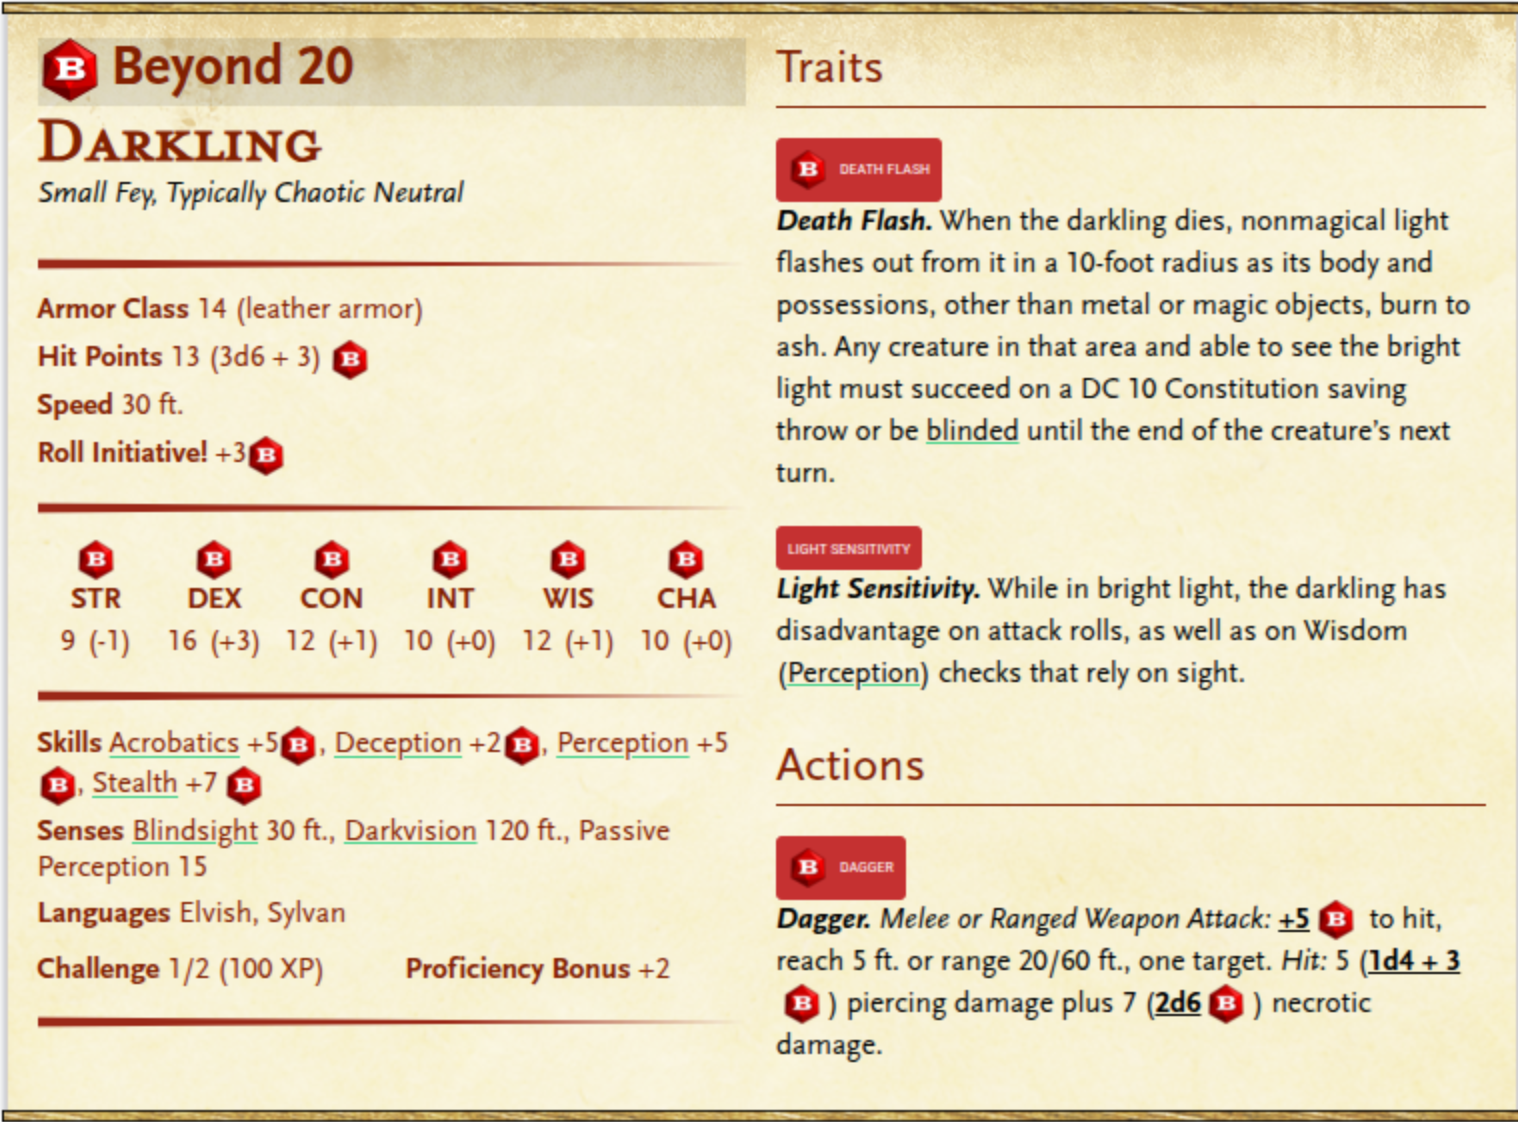
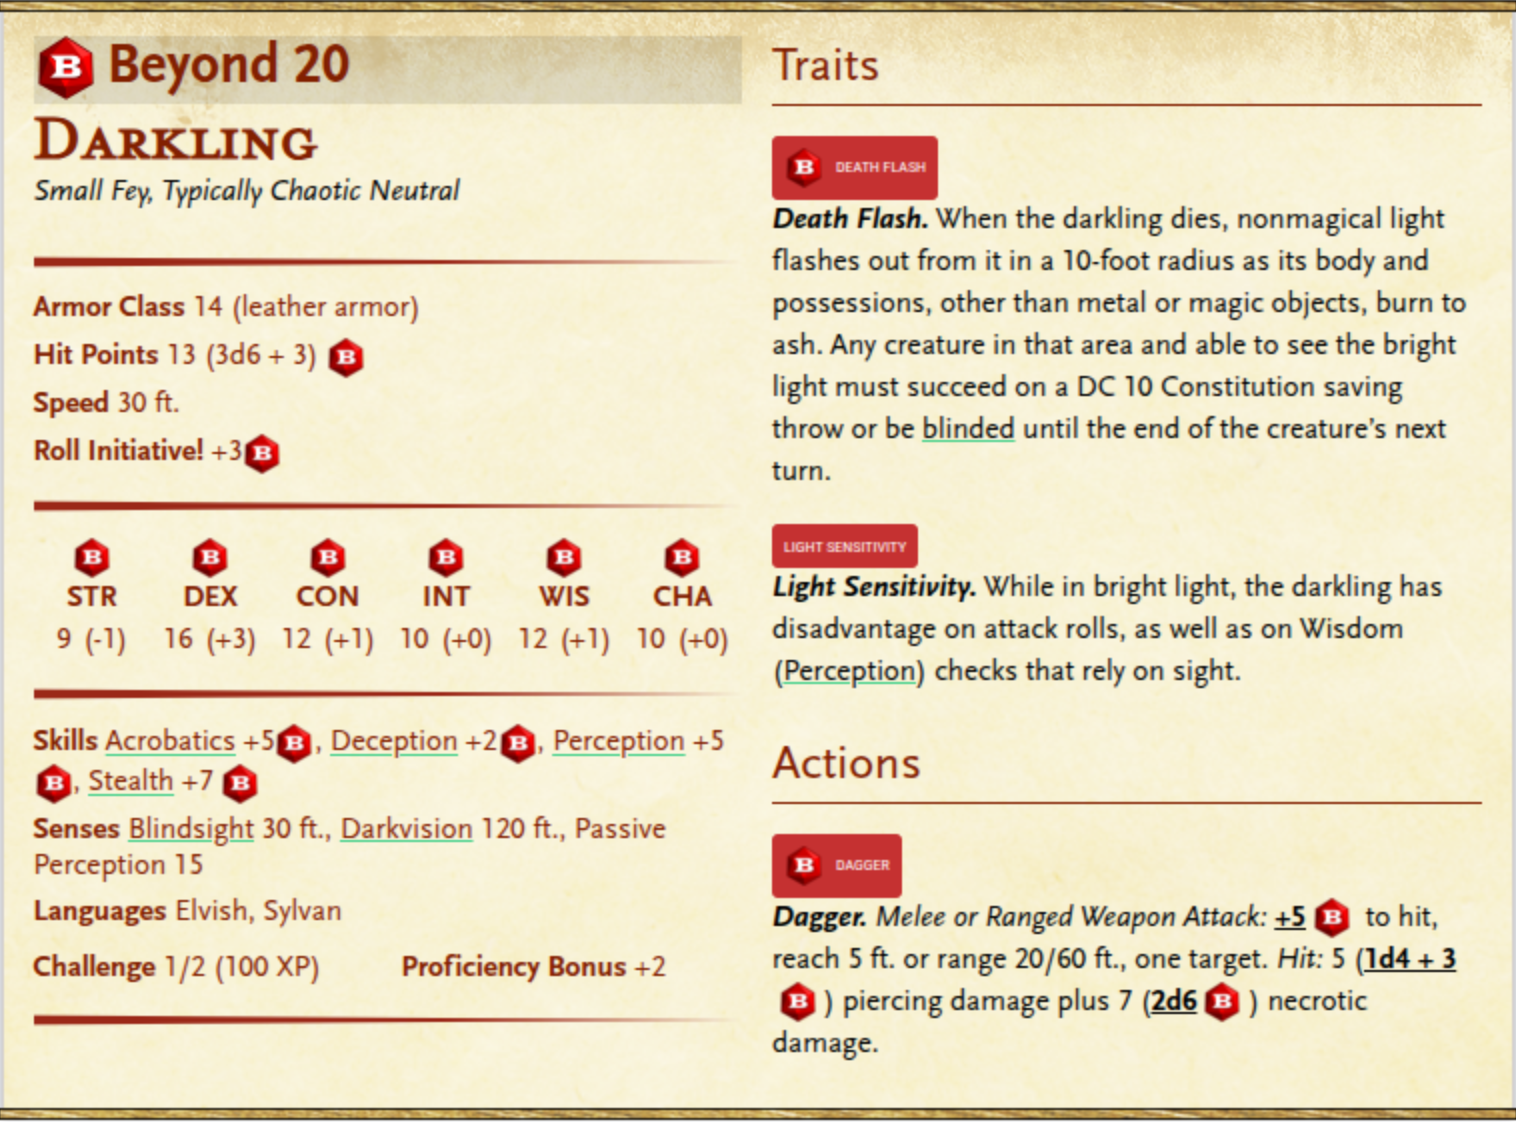
Fixed a few bugs like auto sorting when changing initiatives, deselecting cells after a change automatically, and resizing stat blocks to fit the screen. I also tried adding new images for the Darklings because the ones I had were huge.

Changed region(s): [[0.0, 0.0, 1.0, 1.0], [0.0, 0.9046, 0.434, 0.9358], [0.248, 0.8422, 0.465, 0.8734]]

diff --git a/lib/ui/creature_table_model.py b/lib/ui/creature_table_model.py
@@ -1,7 +1,6 @@
-from PyQt5.QtCore import Qt, QAbstractTableModel, QModelIndex, QVariant
+from PyQt5.QtCore import Qt, QAbstractTableModel, QModelIndex, QVariant, QTimer
 from PyQt5.QtGui import QColor, QFont
 from dataclasses import fields as dataclass_fields
-import platform
 
 SPELL_ICON_COLUMN_NAME = "_spellbook"
 
@@ -10,8 +9,8 @@ class CreatureTableModel(QAbstractTableModel):
         super().__init__(parent)
         self.manager = manager
         self.active_creature_name = None
-        self.selected_index = None  # Store selected index to deselect it later
-        self.view = parent  # Store reference to the QTableView instance
+        self.selected_index = None
+        self.view = parent
 
         if fields is None and self.manager.creatures:
             sample_creature = next(iter(self.manager.creatures.values()))
@@ -40,6 +39,7 @@ class CreatureTableModel(QAbstractTableModel):
         name = self.creature_names[row]
         creature = self.manager.creatures[name]
         attr = self.fields[col]
+
         if attr == SPELL_ICON_COLUMN_NAME:
             from app.creature import CreatureType
             if creature._type != CreatureType.MONSTER:
@@ -51,7 +51,6 @@ class CreatureTableModel(QAbstractTableModel):
             if role == Qt.DisplayRole and (has_slots or has_innate):
                 return "📖"
 
-            # ✅ Only set the font for the emoji column
             if role == Qt.FontRole:
                 font = QFont("Noto Color Emoji")
                 font.setPointSize(12)
@@ -75,24 +74,20 @@ class CreatureTableModel(QAbstractTableModel):
 
         if role == Qt.BackgroundRole:
             is_boolean = isinstance(value, bool)
-
-            # ✅ Boolean column formatting (based on boolean state only)
             if is_boolean:
                 return QColor("#006400") if value else QColor("darkred")
 
-            # ✅ Non-boolean cell formatting based on HP and active creature
             curr_hp = getattr(creature, "_curr_hp", -1)
             max_hp = getattr(creature, "_max_hp", -1)
 
             if isinstance(curr_hp, int) and isinstance(max_hp, int) and max_hp > 0:
                 hp_ratio = curr_hp / max_hp
-
                 if curr_hp == 0:
                     return QColor("red") if name == self.active_creature_name else QColor("darkRed")
                 elif hp_ratio <= 0.5:
                     return QColor("#7a663a") if name == self.active_creature_name else QColor("#5e4e2a")
                 elif name == self.active_creature_name:
-                    return QColor('#006400')  # dark green
+                    return QColor('#006400')
 
         return QVariant()
 
@@ -106,6 +101,8 @@ class CreatureTableModel(QAbstractTableModel):
         creature = self.manager.creatures[name]
         attr = self.fields[col]
 
+        # print(f"[SETDATA] {name} - {attr} -> {value}")
+
         try:
             if isinstance(getattr(creature, attr), bool):
                 setattr(creature, attr, value == Qt.Checked)
@@ -117,33 +114,32 @@ class CreatureTableModel(QAbstractTableModel):
                 return False
 
             self.dataChanged.emit(index, index, [Qt.DisplayRole, Qt.EditRole])
-
-            # Deselect the active cell after editing
             self.deselect_active_cell()
+
+            if attr == "_init" and self.view:
+                # print("[DEBUG] Scheduling initiative refresh...")
+                QTimer.singleShot(0, self.view.handle_initiative_update)
 
             return True
         except (ValueError, TypeError):
             return False
 
     def deselect_active_cell(self):
-        """Deselect the currently selected cell in the view."""
         if self.view:
-            self.view.clearSelection()  # Clear selection from QTableView
-        self.selected_index = None  # Clear the selected index
+            self.view.clearSelection()
+        self.selected_index = None
 
     def flags(self, index):
         if not index.isValid():
             return Qt.ItemIsEnabled
 
         attr = self.fields[index.column()]
-        
-        # 🔒 Make the spellbook icon column read-only
         if attr == SPELL_ICON_COLUMN_NAME:
             creature = self.manager.creatures[self.creature_names[index.row()]]
             from app.creature import CreatureType
             if creature._type == CreatureType.MONSTER:
                 return Qt.ItemIsEnabled | Qt.ItemIsSelectable
-            return Qt.NoItemFlags  # Unclickable for non-monsters
+            return Qt.NoItemFlags
 
         value = getattr(self.manager.creatures[self.creature_names[index.row()]], attr)
 
@@ -155,12 +151,9 @@ class CreatureTableModel(QAbstractTableModel):
     def headerData(self, section, orientation, role=Qt.DisplayRole):
         if orientation == Qt.Horizontal:
             field = self.fields[section]
-
             if role == Qt.DisplayRole:
                 return self.field_to_header(field)
-
             if role == Qt.FontRole and field == SPELL_ICON_COLUMN_NAME:
-                from PyQt5.QtGui import QFont
                 font = QFont("Noto Color Emoji")
                 font.setPointSize(12)
                 return font
@@ -186,37 +179,35 @@ class CreatureTableModel(QAbstractTableModel):
             '_notes': 'Notes',
             '_status_time': 'Status',
             '_spellbook': '📖'
-
         }
         return mapping.get(field, field.lstrip('_').replace('_', ' ').title())
 
     def set_fields_from_sample(self):
         if self.manager.creatures:
             sample = next(iter(self.manager.creatures.values()))
-
-            # Always exclude these from table display
             excluded = {"_spell_slots", "_innate_slots", "_spell_slots_used", "_innate_slots_used", "_active"}
-
             self.fields = [f.name for f in dataclass_fields(sample) if f.name not in excluded]
-
             if SPELL_ICON_COLUMN_NAME not in self.fields:
                 self.fields.append(SPELL_ICON_COLUMN_NAME)
-
             self.layoutChanged.emit()
 
     def refresh(self):
-        self.creature_names = list(self.manager.creatures.keys())
+        sorted_items = sorted(
+            self.manager.creatures.items(),
+            key=lambda item: item[1].initiative,
+            reverse=True
+        )
+        self.creature_names = [name for name, _ in sorted_items]
+        # print("[REFRESH] Sorted creature_names:", self.creature_names)
 
         if not self.fields and self.manager.creatures:
             sample = next(iter(self.manager.creatures.values()))
             excluded = {"_spell_slots", "_innate_slots", "_spell_slots_used", "_innate_slots_used"}
             self.fields = [f.name for f in dataclass_fields(sample) if f.name not in excluded]
-
             if SPELL_ICON_COLUMN_NAME not in self.fields:
                 self.fields.append(SPELL_ICON_COLUMN_NAME)
 
         self.layoutChanged.emit()
-
         if self.rowCount() > 0 and self.columnCount() > 0:
             top_left = self.index(0, 0)
             bottom_right = self.index(self.rowCount() - 1, self.columnCount() - 1)
@@ -232,4 +223,4 @@ class CreatureTableModel(QAbstractTableModel):
 
     def set_creatures(self, creatures):
         self.creatures = creatures
-        self.layoutChanged.emit()  # Trigger the model to refresh
+        self.layoutChanged.emit()

diff --git a/lib/app/app.py b/lib/app/app.py
@@ -575,20 +575,26 @@ class Application:
         self.resize_to_fit_screen(base_name)
 
     def resize_to_fit_screen(self, base_name):
-        # self.statblock.clear()
         screen_geometry = QApplication.desktop().availableGeometry(self)
         screen_width = screen_geometry.width()
         screen_height = screen_geometry.height()
-        extensions = self.get_extensions() 
+
+        max_width = int(screen_width * 0.4)   # 40% of screen width
+        max_height = int(screen_height * 0.9) # 90% of screen height
+
+        extensions = self.get_extensions()
         for ext in extensions:
             image_path = self.get_image_path(f'{base_name}.{ext}')
             if os.path.exists(image_path):
                 self.pixmap = QPixmap(image_path)
-                h_shift = screen_width / 2440 if screen_width < 2560 else 1
-                v_shift = screen_height / 1440 if screen_height < 1440 else 1
-                new_size = QSize(int(self.pixmap.width() * h_shift), int(self.pixmap.height() * v_shift))
-                scaled_pixmap = self.pixmap.scaled(new_size, Qt.KeepAspectRatio, Qt.SmoothTransformation)
+                scaled_pixmap = self.pixmap.scaled(
+                    max_width,
+                    max_height,
+                    Qt.KeepAspectRatio,
+                    Qt.SmoothTransformation
+                )
                 self.statblock.setPixmap(scaled_pixmap)
+                break
 
     def hide_statblock(self):
         self.statblock.hide()
@@ -715,3 +721,12 @@ class Application:
     def create_or_update_characters(self):
         dialog = UpdateCharactersWindow(self)
         dialog.exec_()
+
+    def on_commit_data(self, editor):
+        # print("[COMMIT] Value committed from editor")
+        self.manager.sort_creatures()
+        self.sorted_creatures = list(self.manager.creatures.values())
+        self.table_model.refresh()
+        self.update_table()
+        self.update_active_init()
+        self.table.clearSelection()

diff --git a/lib/app/manager.py b/lib/app/manager.py
@@ -24,8 +24,14 @@ class CreatureManager:
                 del self.creatures[creature_names]
 
     def sort_creatures(self) -> None:
-        # Sort creatures by the initiative value (_init)
-        self.creatures = dict(sorted(self.creatures.items(), key=lambda item: item[1]._init, reverse=True))
+        sorted_creatures = sorted(self.creatures.items(), key=lambda item: item[1].initiative, reverse=True)
+        new_dict = {k: v for k, v in sorted_creatures}
+
+        # print("[SORT] New order:", list(new_dict.keys()))
+
+        # Force reference replacement
+        self.creatures.clear()
+        self.creatures.update(new_dict)
 
     def set_creature_init(self, creature: str, init: int) -> None:
         self.creatures[creature].initiative = init

diff --git a/lib/ui/ui.py b/lib/ui/ui.py
@@ -61,6 +61,7 @@ class InitiativeTracker(QMainWindow, Application):
         self.table_model = CreatureTableModel(self.manager)
         self.table = QTableView(self)
         self.table.setModel(self.table_model)
+        self.table.itemDelegate().commitData.connect(self.on_commit_data)
         self.table.clicked.connect(self.handle_cell_clicked)
 # Ensure that the table's size is fixed and matches its content
         self.table.setSizePolicy(QSizePolicy.Fixed, QSizePolicy.Fixed)
